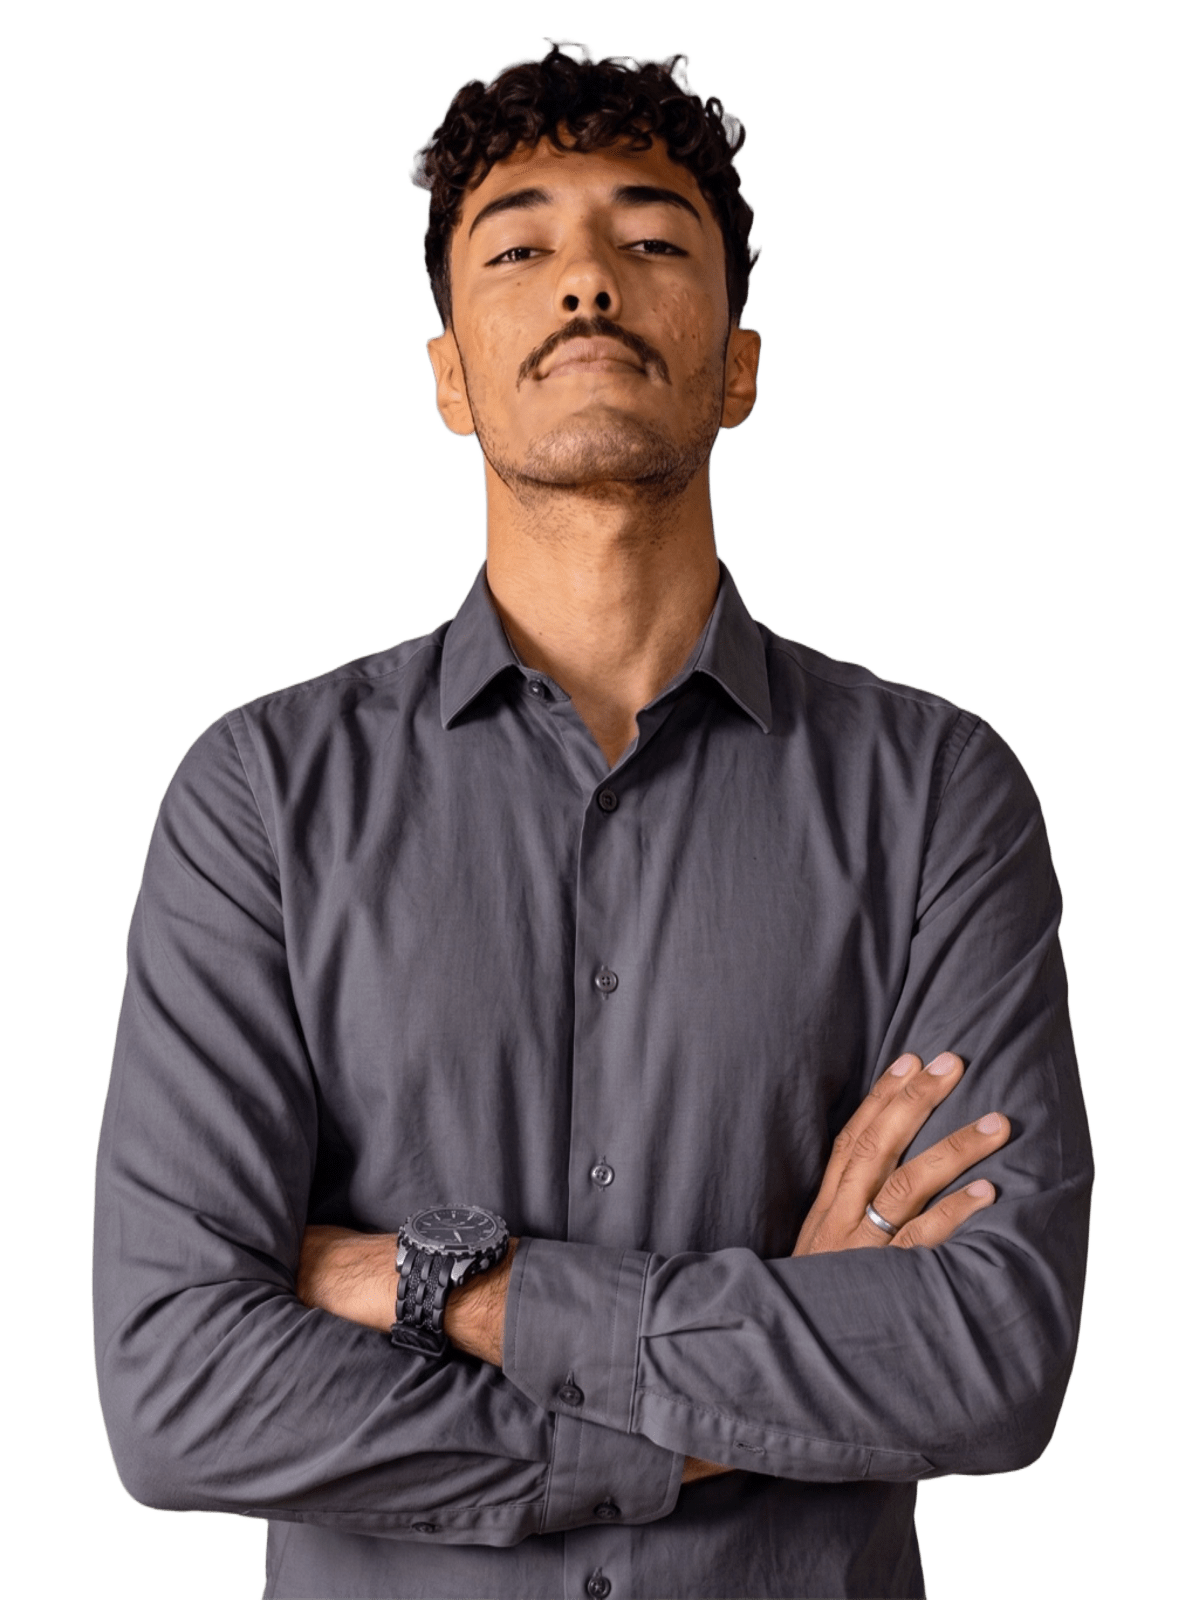
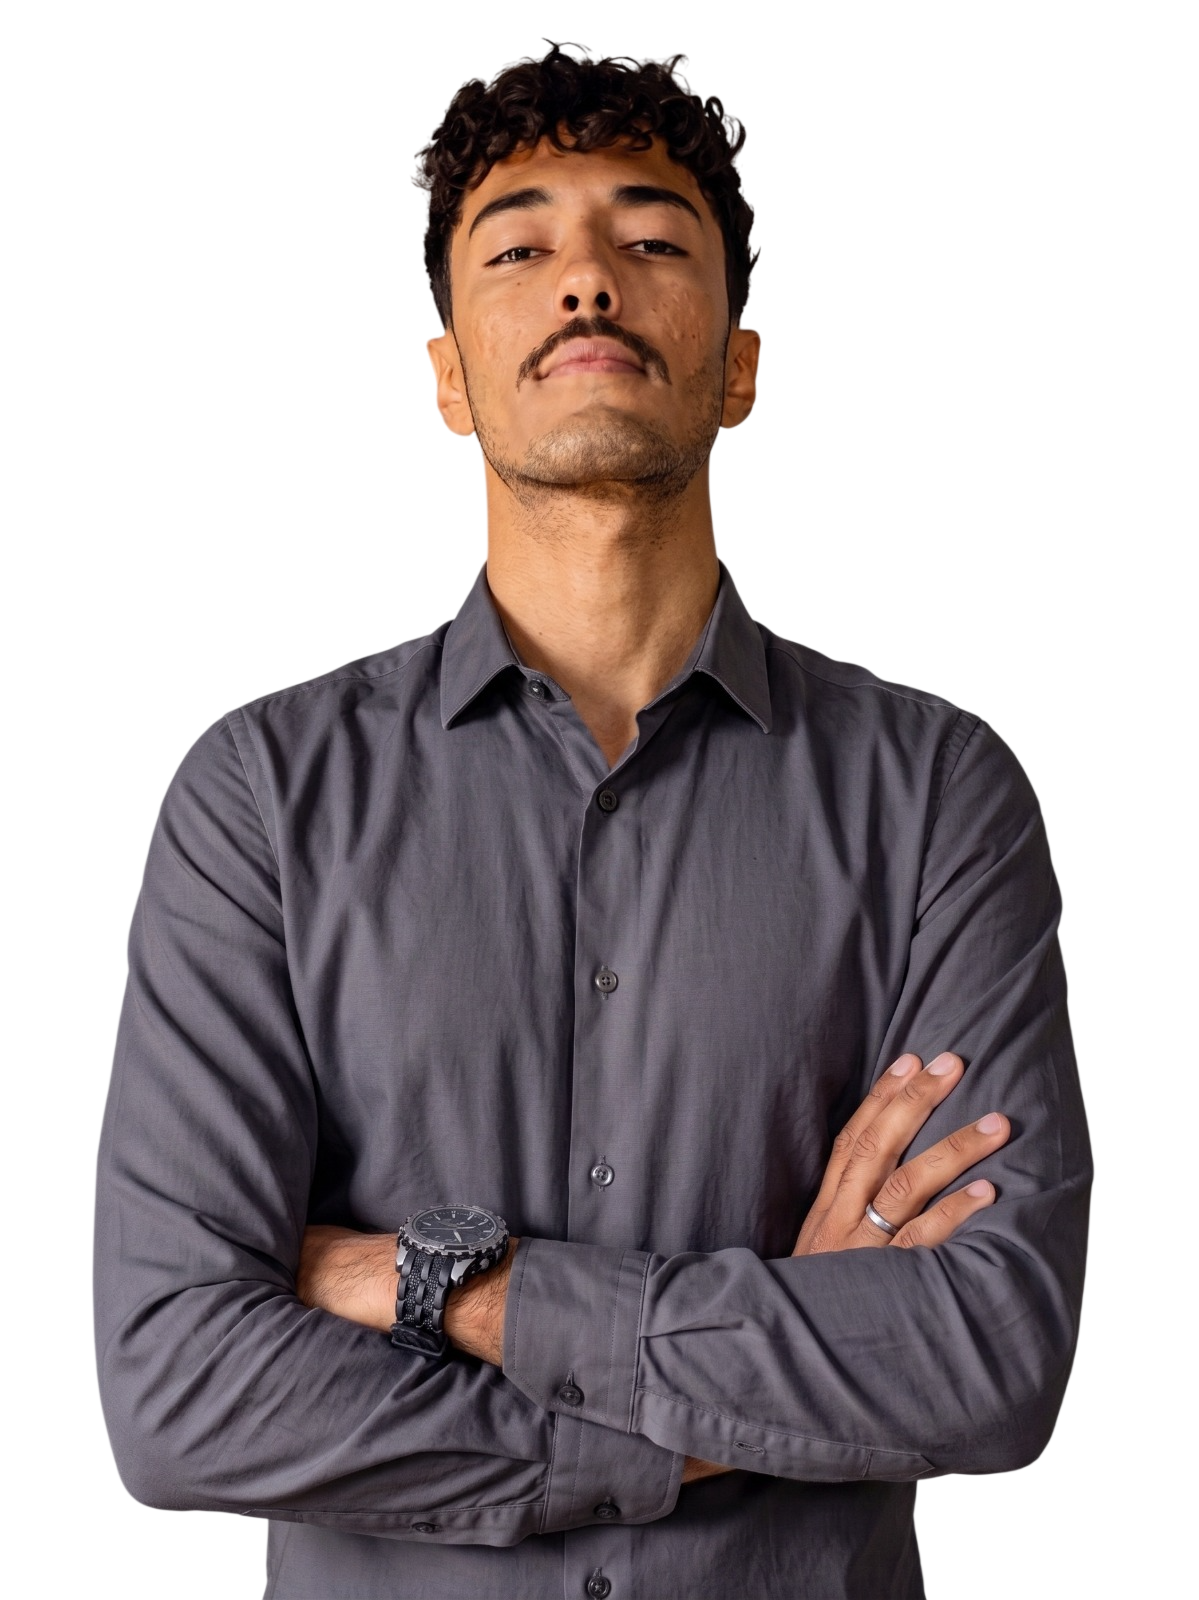
Refinamento e adição de mais skills

diff --git a/js/scripts.js b/js/scripts.js
@@ -13,8 +13,8 @@ if (cursorDot && window.matchMedia('(hover: hover)').matches) {
     });
 
     if (window.gsap) {
-        const xTo = gsap.quickTo(cursorDot, "x", { duration: 0.15, ease: "power3" });
-        const yTo = gsap.quickTo(cursorDot, "y", { duration: 0.15, ease: "power3" });
+        const xTo = gsap.quickTo(cursorDot, "x", { duration: 0.25, ease: "power3" });
+        const yTo = gsap.quickTo(cursorDot, "y", { duration: 0.25, ease: "power3" });
         gsap.ticker.add(() => {
             xTo(mouseX);
             yTo(mouseY);
@@ -47,8 +47,8 @@ if (heroImagem) {
     function lerp(a, b, n) { return a + (b - a) * n; }
 
     function loopSuavizacao() {
-        currentX = lerp(currentX, targetX, 0.15);
-        currentY = lerp(currentY, targetY, 0.15);
+        currentX = lerp(currentX, targetX, 0.45);
+        currentY = lerp(currentY, targetY, 0.45);
         heroImagem.style.setProperty('--x', currentX + 'px');
         heroImagem.style.setProperty('--y', currentY + 'px');
         requestAnimationFrame(loopSuavizacao);
@@ -103,9 +103,9 @@ Perto do mouse, os caracteres são empurrados pra longe do cursor (abre um vão)
 
     const ctx = canvas.getContext('2d');
     const CARACTERES = 'アイウエオカキクケコサシスセソ0123456789ABCDEFGHIJKLMNOPQRSTUVWXYZ<>/{}[]⦓⦔⸹꡴∅∰';
-    const TAMANHO_RASTRO = 40;
+    const TAMANHO_RASTRO = 30;
     const RAIO_MOUSE = 100;
-    const FORCA_EMPURRAO = 90;
+    const FORCA_EMPURRAO = 100;
 
     let largura, altura, fontSize, colunas, drops, dpr;
     let mouseX = -9999, mouseY = -9999;
@@ -137,7 +137,7 @@ Perto do mouse, os caracteres são empurrados pra longe do cursor (abre um vão)
 
         largura = novaLargura;
         altura = novaAltura;
-        fontSize = Math.max(20, Math.min(20, largura / 45));
+        fontSize = Math.max(35, Math.min(20, largura / 45));
 
         if (larguraMudou || !colunas) {
             colunas = Math.floor(largura / fontSize);
@@ -162,7 +162,7 @@ Perto do mouse, os caracteres são empurrados pra longe do cursor (abre um vão)
 
                 let x = baseX;
 
-                // Distorção: empurra o caractere pra longe do cursor 
+                // Empurrão: empurra o caractere pra longe do cursor 
                 const dx = x - mouseX;
                 const dy = y - mouseY;
                 const dist = Math.sqrt(dx * dx + dy * dy);
@@ -211,7 +211,7 @@ Perto do mouse, os caracteres são empurrados pra longe do cursor (abre um vão)
 
 // Árvore / Constelação (como você preferir chamar) das minhas skills
 /* Hub central -> vertentes -> ferramentas.
-// Ferramentas que pertencem a mais de uma vertente (ex: JavaScript em Front-end E Linguagens) recebem uma linha diagonal extra até a
+Ferramentas que pertencem a mais de uma vertente (ex: JavaScript em Front-end E Linguagens) recebem uma linha diagonal extra até a
 categoria secundária, sem mudar de posição na órbita. */
 
 (function () {
@@ -223,16 +223,17 @@ categoria secundária, sem mudar de posição na órbita. */
 
     // Vertentes, na ordem em que aparecem na órbita
     const CATEGORIAS = [
-        { chave: 'Línguas', label:'Línguas / Languages'},
+        { chave: 'Línguas', label:'Idiomas / Languages'},
         { chave: 'FrontEnd', label: 'Front-end / Web' },
         { chave: 'BackEnd', label: 'Back-end' },
-        { chave: 'Mobile', label: 'Mobile' },
-        { chave: 'Database', label: 'Database / Dados' },
         { chave: 'Linguagens', label: 'Linguagens / Programming' },
+        { chave: 'Database', label: 'Database / Dados' },
+        { chave: 'Mobile', label: 'Mobile' },
         { chave: 'DevFerramentas', label: 'Dev / Ferramentas' },
         { chave: 'Testes', label: 'Testes / Tests' },
         { chave: 'Cloud', label: 'Cloud / BaaS' },
         { chave: 'Office', label: 'Office / Produtividade' },
+        { chave: 'SO / OS', label: 'SO/ OS'}
     ];
 
     // Local que eu edito as ferramentas
@@ -252,16 +253,16 @@ categoria secundária, sem mudar de posição na órbita. */
         { nome: 'Java', nivel: 'conhecimento', icone: 'assets/icons/java.svg', categoria: 'BackEnd', extras: ['Linguagens'] },
         { nome: 'Spring Boot', nivel: 'conhecimento', icone: 'assets/icons/springboot.svg', categoria: 'BackEnd' },
 
-        { nome: 'Flutter', nivel: 'dominio', icone: 'assets/icons/flutter.svg', categoria: 'Mobile' },
-        { nome: 'Dart', nivel: 'dominio', icone: 'assets/icons/dart.svg', categoria: 'Mobile', extras: ['Linguagens'] },
+        { nome: 'Python', nivel: 'dominio', icone: 'assets/icons/python.svg', categoria: 'Linguagens' },
+        { nome: 'C++', nivel: 'conhecimento', icone: 'assets/icons/c++.svg', categoria: 'Linguagens', extras: ['BackEnd'] },
 
         { nome: 'SQL', nivel: 'conhecimento', icone: 'assets/icons/sql.svg', categoria: 'Database' },
         { nome: 'MySQL', nivel: 'conhecimento', icone: 'assets/icons/mysql.svg', categoria: 'Database' },
         { nome: 'PostgreSQL', nivel: 'conhecimento', icone: 'assets/icons/postgresql.svg', categoria: 'Database' },
         { nome: 'Supabase', nivel: 'dominio', icone: 'assets/icons/supabase.svg', categoria: 'Cloud', extras: ['Database'] },
 
-        { nome: 'Python', nivel: 'dominio', icone: 'assets/icons/python.svg', categoria: 'Linguagens' },
-        { nome: 'C++', nivel: 'conhecimento', icone: 'assets/icons/c++.svg', categoria: 'Linguagens', extras: ['BackEnd'] },
+        { nome: 'Flutter', nivel: 'dominio', icone: 'assets/icons/flutter.svg', categoria: 'Mobile' },
+        { nome: 'Dart', nivel: 'dominio', icone: 'assets/icons/dart.svg', categoria: 'Mobile', extras: ['Linguagens'] },
 
         { nome: 'Git', nivel: 'dominio', icone: 'assets/icons/git.svg', categoria: 'DevFerramentas' },
         { nome: 'GitHub', nivel: 'dominio', icone: 'assets/icons/github.svg', categoria: 'DevFerramentas' },
@@ -270,7 +271,12 @@ categoria secundária, sem mudar de posição na órbita. */
 
         { nome: 'JUnit', nivel: 'conhecimento', icone: 'assets/icons/junit5.svg', categoria: 'Testes' },
 
-        { nome: 'Office 365', nivel: 'dominio', icone: 'assets/icons/office365.svg', categoria: 'Office' },
+        { nome: 'Office 365', nivel: 'dominio', icone: 'assets/icons/office365.svg', categoria: 'Office', extras: ['SO / OS'] },
+        { nome: 'Libre Office', nivel: 'dominio', icone: 'assets/icons/libreoffice.svg', categoria: 'Office', extras: ['SO / OS'] },
+    
+        { nome: 'Windows', nivel: 'dominio', icone: 'assets/icons/windows.svg', categoria: 'SO / OS' },
+        { nome: 'Linux', nivel: 'dominio', icone: 'assets/icons/linux.svg', categoria: 'SO / OS'}
+    
     ];
     const TEXTO_STATUS = {
         dominio: 'NivelDominio',
@@ -333,7 +339,7 @@ categoria secundária, sem mudar de posição na órbita. */
         const raioFerramenta = 140 * escala;
 
         // Círculo central
-        const hub = { x: cx, y: cy + Math.sin(tempo / 1800) * 3 * escala, raioBase: 32 * escala, tipo: 'hub', nome: 'Minha Stack' };
+        const hub = { x: cx, y: cy + Math.sin(tempo / 1800) * 3 * escala, raioBase: 22 * escala, tipo: 'hub', nome: 'Minha Stack' };
         nos.push(hub);
 
         // Categorias, uma por vertente, distribuídas em círculo 
@@ -468,7 +474,7 @@ categoria secundária, sem mudar de posição na órbita. */
             tooltip.classList.add('ativa');
 
             // Prende a tooltip dentro da tela, evitando que corte nas bordas em telas pequenas
-            const margem = 12;
+            const margem = 40;
             const larguraTooltip = tooltip.offsetWidth;
             const xClamp = Math.max(
                 larguraTooltip / 2 + margem,
@@ -517,17 +523,6 @@ function atualizarProgresso() {
 window.addEventListener('scroll', atualizarProgresso);
 window.addEventListener('resize', atualizarProgresso);
 atualizarProgresso();
-
-// Acordeão dos itens da timeline
-document.querySelectorAll('.TimelineToggle').forEach((btn) => {
-    btn.addEventListener('click', () => {
-        const aberto = btn.getAttribute('aria-expanded') === 'true';
-        btn.setAttribute('aria-expanded', String(!aberto));
-
-        const detalhes = btn.nextElementSibling;
-        if (detalhes) detalhes.classList.toggle('aberto', !aberto);
-    });
-});
 
 // Coloca o ano atual no copyright do rodapé
  const anoAtualEl = document.getElementById('AnoAtual');

diff --git a/js/language.js b/js/language.js
@@ -3,6 +3,13 @@ const containerLinguas = document.querySelector('.Linguas');
 let dados = {};
 let rawData = [];
 
+function inicializar(lang) {
+    aplicarDadosNoHTML(lang);   
+    aplicarVerMais(lang);       
+    iniciarAccordion(lang);      
+    renderizarProjetos(lang);   
+}
+
 function carregarDados() {
    
     fetch('datalanguage.json')
@@ -11,8 +18,7 @@ function carregarDados() {
             rawData = data;
             dados = Object.assign({}, ...data);
             const idiomaSalvo = localStorage.getItem('idioma') || 'pt';
-            aplicarDadosNoHTML(idiomaSalvo);
-            renderizarProjetos(idiomaSalvo);
+            inicializar(idiomaSalvo);
         })
         .catch(error => console.error("Erro ao carregar o arquivo JSON:", error));
 }
@@ -44,6 +50,31 @@ function aplicarDadosNoHTML(lang) {
     });
 }
 
+function aplicarVerMais(lang) {
+    document.querySelectorAll('.TimelineToggle .verMaisTimeline').forEach(span => {
+        const texto = dados[`verMais.${lang}`] || dados[`verMais.pt`];
+        span.textContent = texto;
+    });
+}
+
+function iniciarAccordion(lang) {
+    document.querySelectorAll('.TimelineToggle').forEach(btn => {
+        btn.addEventListener('click', () => {
+            const aberto = btn.getAttribute('aria-expanded') === 'true';
+            btn.setAttribute('aria-expanded', String(!aberto));
+            const detalhes = btn.nextElementSibling;
+            if (detalhes) detalhes.classList.toggle('aberto', !aberto);
+            const span = btn.querySelector('.verMaisTimeline');
+            if (span) {
+                const novoTexto = aberto
+                    ? (dados[`verMais.${lang}`] || dados[`verMais.pt`])
+                    : (dados[`verMenos.${lang}`] || dados[`verMenos.pt`]);
+                span.textContent = novoTexto;
+            }
+        });
+    });
+}
+
 function renderizarProjetos(lang) {
     const cardContainer = document.getElementById("CardsContainer");
     if (!cardContainer) return;
@@ -56,7 +87,6 @@ function renderizarProjetos(lang) {
         'es': { ver: 'Ver Proyecto', repo: 'Repositorio en GitHub' }
     };
     const textoBotao = labels[lang] || labels['pt'];
-
     const projetos = rawData.filter(item => item[`titulocard.${lang}`]);
 
     projetos.forEach(dado => {
@@ -66,6 +96,7 @@ function renderizarProjetos(lang) {
         const botaoVer   = link1 ? `<a href="${link1}" target="_blank" class="link1">${textoBotao.ver}</a>` : '';
         const botaoRepo  = link2 ? `<a href="${link2}" target="_blank" class="link2">${textoBotao.repo}</a>` : '';
 
+        
         const linksHTML = (botaoVer || botaoRepo)
             ? `<div class="card-links">${botaoVer}${botaoRepo}</div>`
             : '';   // string vazia → não será inserida
@@ -76,7 +107,7 @@ function renderizarProjetos(lang) {
             <img src="${dado[`iconecard.${lang}`]}" alt="${dado[`titulocard.${lang}`]}">
             <h3 class="titulo-card">${dado[`titulocard.${lang}`]}</h3>
             <p>${dado[`descricaocard.${lang}`]}</p>
-            <div class="tecnologias"><i><p>${dado[`tecnologias.${lang}`]}</p></i></div>
+            <div class="tecnologias"><h4>${dado[`tecnologiasUsadas.${lang}`]}</h4><i><p>${dado[`tecnologias.${lang}`]}</p></i></div>
             ${linksHTML}
         `;
         cardContainer.appendChild(div);

diff --git a/style.css b/style.css
@@ -28,9 +28,10 @@
   font-display: swap;
 }
 
-/* Scroll */   
+/* HTML*/   
 html {
     scroll-behavior: smooth;
+    -webkit-tap-highlight-color: transparent;
 }
 
 /* VARIAVEIS */
@@ -295,8 +296,8 @@ main {
     z-index: 0;
     opacity: 0.9;
     pointer-events: none; 
-    mask-image: linear-gradient(to bottom, black 55%, transparent 100%);
-    -webkit-mask-image: linear-gradient(to bottom, black 55%, transparent 100%);
+    mask-image: linear-gradient(to bottom, black 20%, transparent 100%);
+    -webkit-mask-image: linear-gradient(to bottom, black 20%, transparent 100%);
 }
 .HeroTexto {
     position: relative;
@@ -435,7 +436,7 @@ main {
 }
 
 /* Secao sobre */
-.ContainerSecaoSobre {
+.ContainerSecaoSobre, .ParagrafoSecaoProjetos {
     display: flex;
     flex-direction: column;
     width: 100%;
@@ -446,7 +447,7 @@ main {
     box-sizing: border-box;
 }
 .ParagrafoSecaoSobre1, 
-.ParagrafoSecaoSobre2 {
+.ParagrafoSecaoSobre2, .ParagrafoSecaoProjetos {
     max-width: 680px;
     width: fit-content;
     padding: 1.8rem 2.2rem;
@@ -535,8 +536,13 @@ main {
 }
 .TimelineTexto {
     font-size: 1.1rem;
-    margin: 0;
+    margin: 10px;
     text-align: inherit;
+}
+.verMaisTimeline{
+    font-family: var(--fonte-tech);
+    font-size: 1.2rem;
+    color: var(--cor-link);
 }
 .TimelineToggle {
     all: unset;
@@ -546,15 +552,6 @@ main {
     width: 100%;
     box-sizing: border-box;
     display: inline-block;
-}
-.TimelineIcone {
-    font-size: 2rem;
-    color: var(--cor-link);
-    transition: all 0.3s ease;
-    display: inline-block;
-}
-.TimelineToggle[aria-expanded="true"] .TimelineIcone {
-    transform: rotate(45deg);
 }
 .TimelineDetalhes {
     display: grid;
@@ -645,7 +642,9 @@ main {
 .card img { max-width: 450px; height: auto; object-fit: contain; border-radius: 20px}
 .titulo-card { font-size: 1.3rem; margin: 0; }
 .card p { font-size: 1.05rem; }
-.card .tecnologias p { font-size: 0.95rem; opacity: 0.8; }
+.card .tecnologias { display: flex; flex-direction: row; align-items: center;}
+.card h4{ font-family: var(--fonte-tech); font-size: 1.05rem;}
+.card .tecnologias p { font-size: 0.95rem; opacity: 0.8; padding: 5px; }
 .card-links { display: flex; flex-direction: column; gap: 1rem; width: 100%; }
 .card-links a {
     text-decoration: none;
@@ -723,7 +722,7 @@ main {
     cursor: pointer;
     transition: opacity var(--transition);
 }
-.FormContato button:hover { opacity: 0.85; }
+.FormContato button:hover { opacity: 0.65; }
 .ContatoBotoes {
     display: flex;
     flex-direction: column;
@@ -812,14 +811,14 @@ main {
     display: none;
     position: fixed;
     bottom: 40px;
-    right: 40px;
+    right: 50px;
     background-color: var(--cor-link);
     width: 60px;
     height: 60px;
     border-radius: 50%;
     z-index: 998;
-    transition: all var(--transition);
     text-decoration: none;
+    transition: all var(--transition);
 }
 #back-to-top img {
     width: 60%;
@@ -827,10 +826,14 @@ main {
     margin: 20% auto;
     display: block;
     filter: invert(1);
+    transition: all var(--transition);
 }
 #back-to-top:hover {
-    transform: scale(1.05);
     box-shadow: 0 0 50px var(--cor-link);
+}
+#back-to-top img:hover{
+    transform: scale(1.2);
+    transform: translateY(-5px);
 }
 
 /* Responsividade */

diff --git a/index.html b/index.html
@@ -124,7 +124,7 @@
                 <button class="TimelineToggle" aria-expanded="false" aria-label="Expandir ou recolher detalhes de 01/2025 / Expand or collapse details of 01/2025 / Expandir o contraer detalles de 01/2025" title="Expandir ou recolher detalhes / Expand or collapse details / Expandir o contraer detalles">
                 <p class="TimelineData">01/2025</p>
                 <p class="TimelineTexto" data-translate-key="Timeline4"></p>
-                <span class="TimelineIcone" title="Ver mais / See more / Ver más" aria-hidden="true">+</span>
+                <span class="verMaisTimeline" title="Ver mais / See more / Ver más" aria-hidden="true" data-translate-key="verMais"></span>
                 </button>
                 <div class="TimelineDetalhes">
                     <div class="TimelineDetalhesInner">
@@ -138,7 +138,7 @@
                 <button class="TimelineToggle" aria-expanded="false" aria-label="Expandir ou recolher detalhes de 06/2025 / Expand or collapse details of 06/2025 / Expandir o contraer detalles de 06/2025" title="Expandir ou recolher detalhes / Expand or collapse details / Expandir o contraer detalles">
                 <p class="TimelineData">06/2025</p>
                 <p class="TimelineTexto" data-translate-key="Timeline5"></p>
-                <span class="TimelineIcone" title="Ver mais / See more / Ver más" aria-hidden="true">+</span>
+                <span class="verMaisTimeline" title="Ver mais / See more / Ver más" aria-hidden="true" data-translate-key="verMais"></span>
                 </button>
                 <div class="TimelineDetalhes">
                     <div class="TimelineDetalhesInner">
@@ -276,7 +276,8 @@
         <h2 class="h2SecaoProjetos" data-translate-key="h2SecaoProjetos"></h2> 
     </i>
     <div class="ParagrafoSecaoProjetos">
-        <p data-translate-key="ParagrafoSecaoProjetos"></p>
+        <p data-translate-key="ParagrafoSecaoProjetos1"></p>
+        <p data-translate-key="ParagrafoSecaoProjetos2"></p>
     </div>
     <section class="CardsContainer" id="CardsContainer" aria-label="Lista de projetos / Projects list / Lista de proyectos">
     </section>
